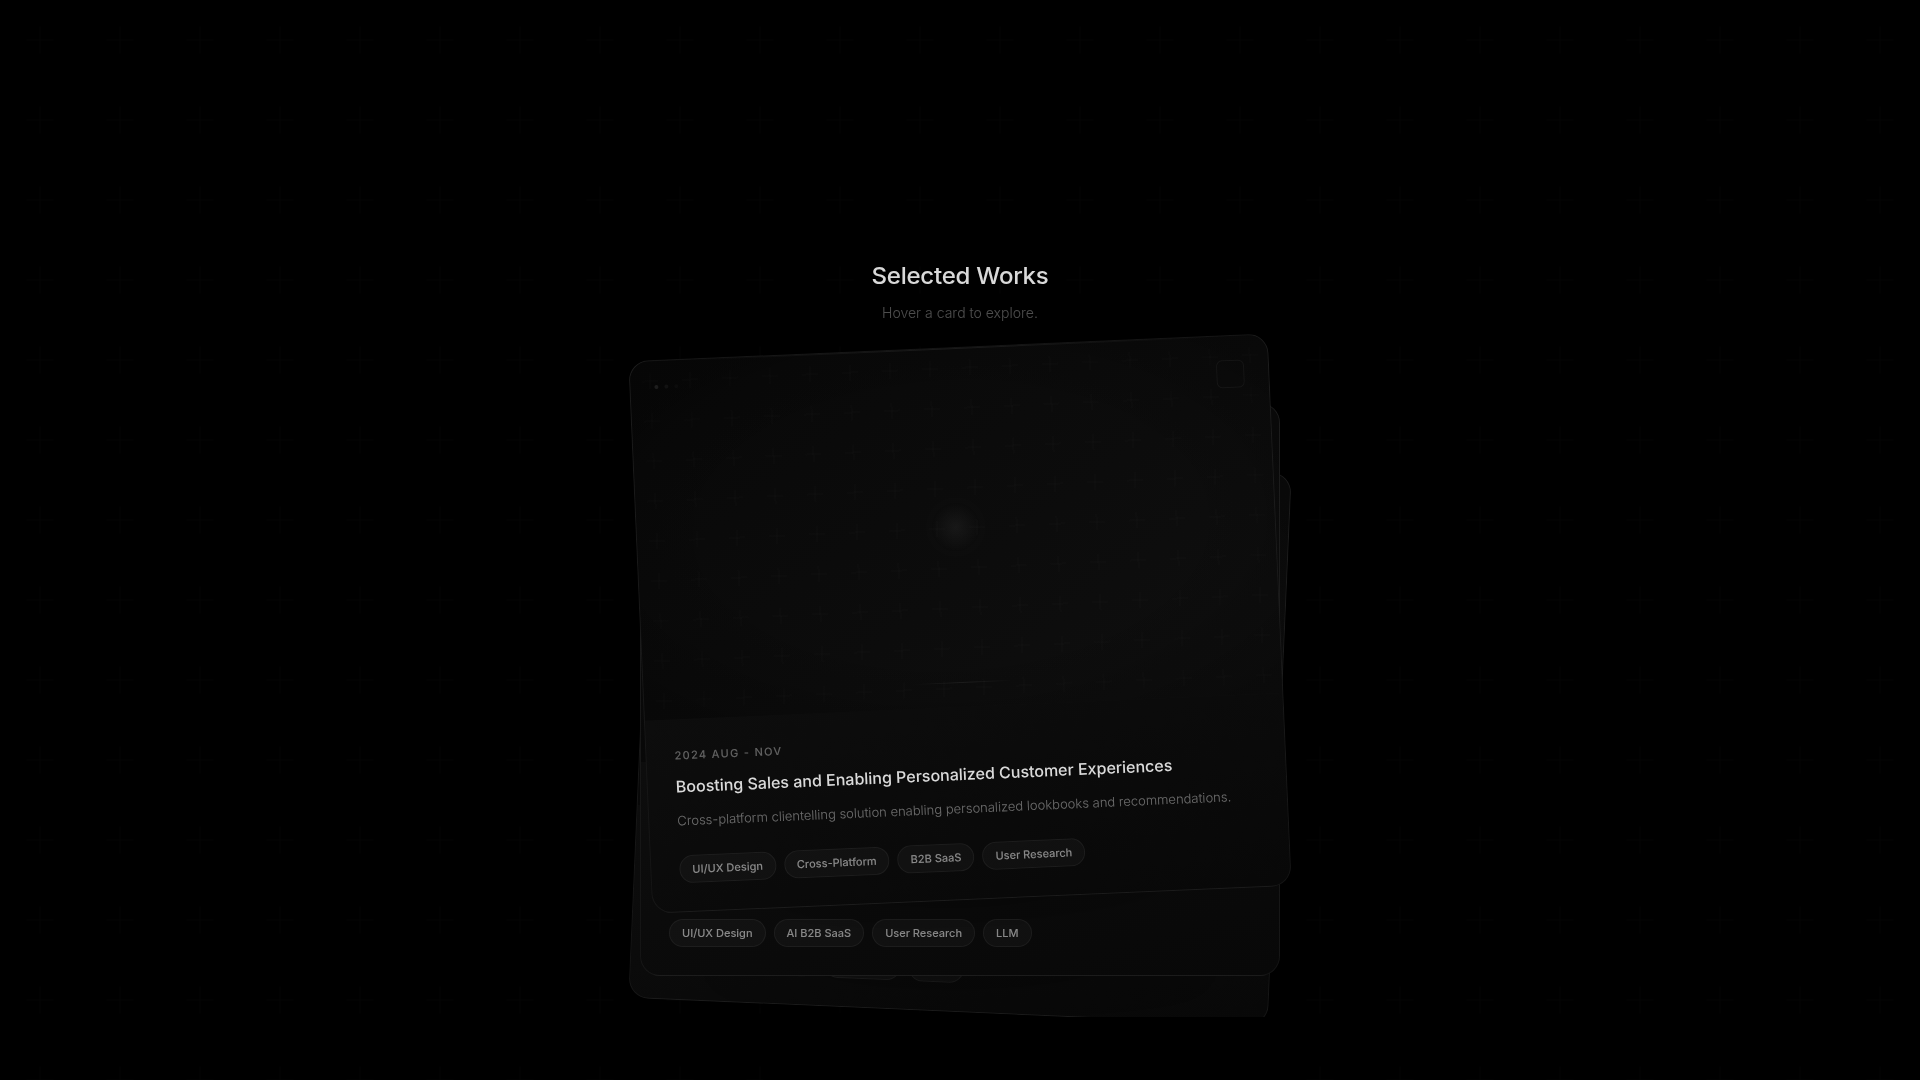
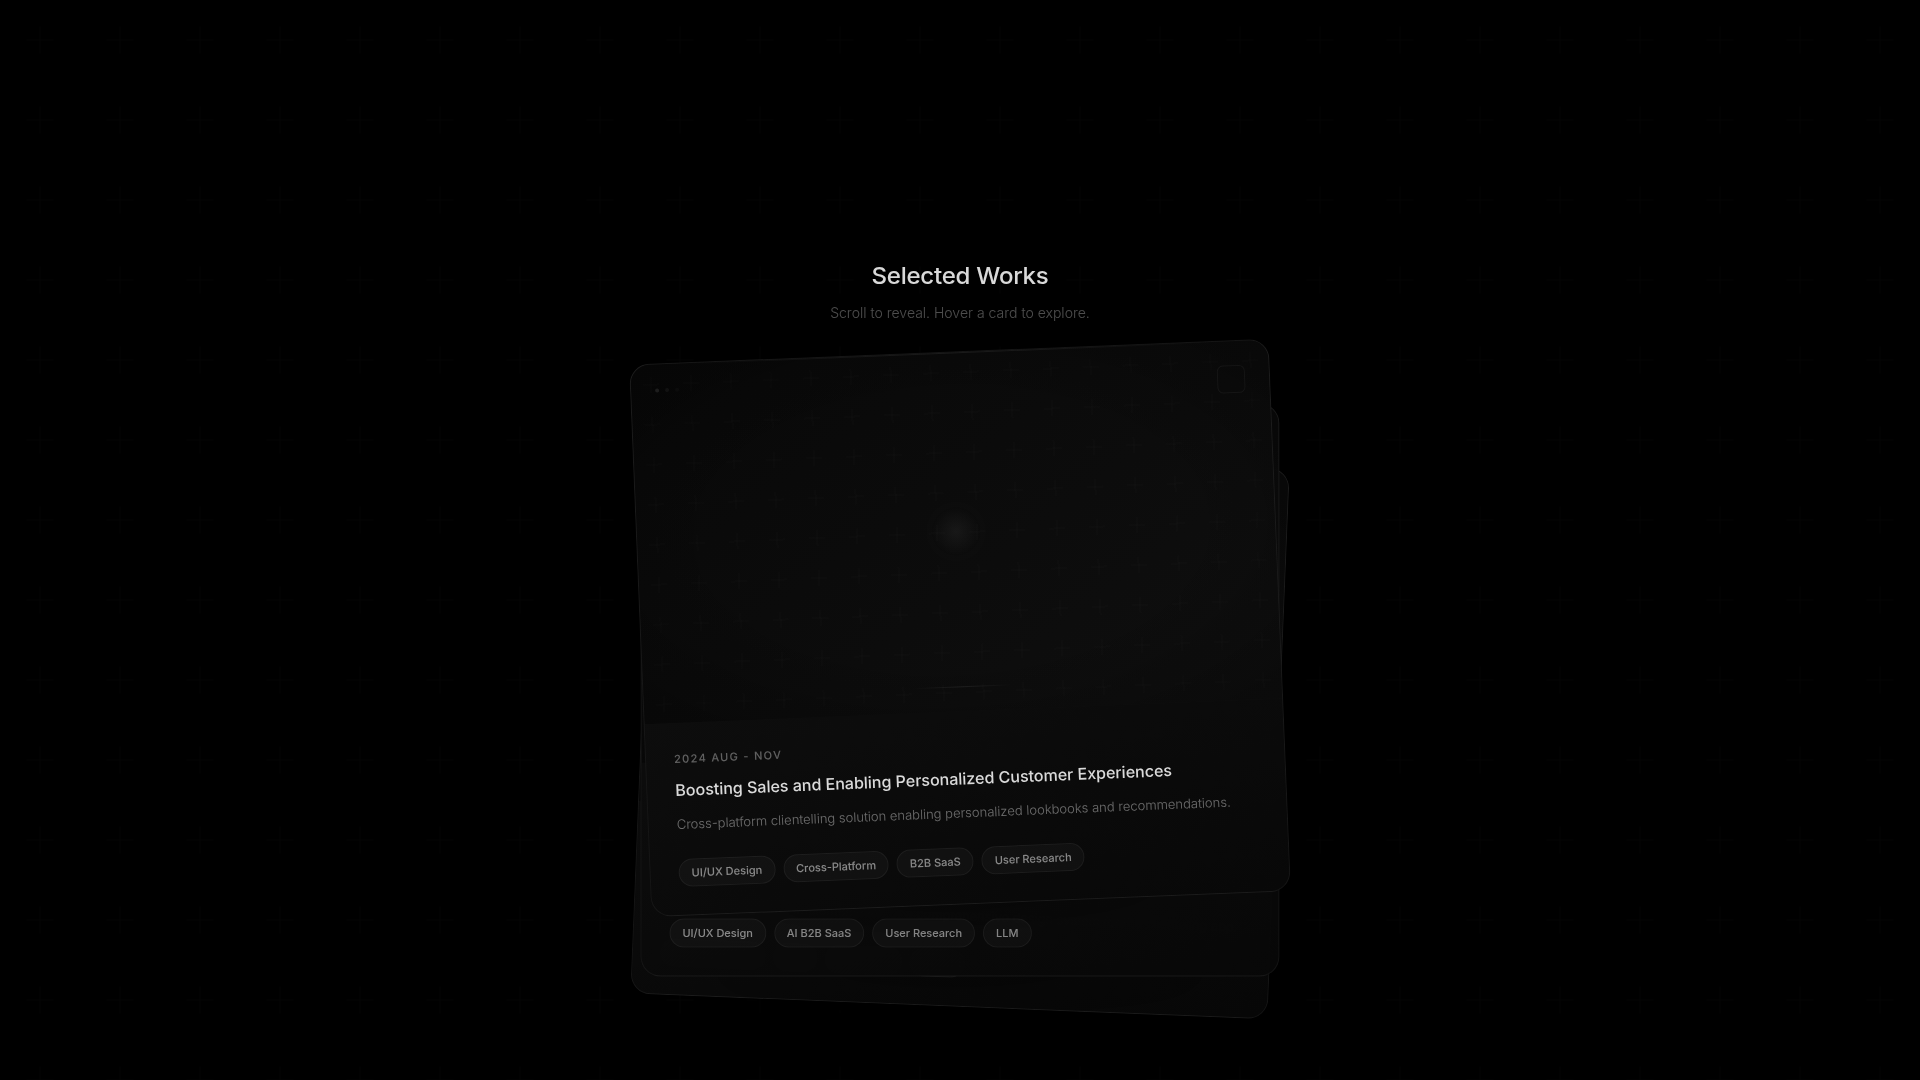
Make card stack interactive with scrolling and hovering
Implement scroll-driven animations for card stacking and individual card hover effects in TiltStack.tsx.

Replit-Commit-Author: Agent
Replit-Commit-Session-Id: c0982322-0e7c-4929-8baf-d1b960be61bd
Replit-Commit-Checkpoint-Type: full_checkpoint
Replit-Commit-Event-Id: fe43eab9-32f4-4708-a126-9c12268e8735
Replit-Commit-Screenshot-Url: https://storage.googleapis.com/screenshot-production-us-central1/5a25a198-8e8f-4f64-b379-6fbe4fcce09e/c0982322-0e7c-4929-8baf-d1b960be61bd/ggiEiC9
Replit-Helium-Checkpoint-Created: true

Changed region(s): [[0.3438, 0.6722, 0.625, 0.7944], [0.375, 0.7944, 0.5, 0.825], [0.4375, 0.275, 0.5312, 0.3056]]

diff --git a/artifacts/mockup-sandbox/src/components/mockups/product-cards/TiltStack.tsx b/artifacts/mockup-sandbox/src/components/mockups/product-cards/TiltStack.tsx
@@ -1,4 +1,4 @@
-import React, { useRef, useState } from 'react';
+import React, { useRef, useState, useEffect, useCallback } from 'react';
 import './_tilt.css';
 
 const PROJECTS = [
@@ -30,11 +30,13 @@ function StackedCard({
   index,
   activeIndex,
   setActiveIndex,
+  scrollProgress,
 }: {
   project: typeof PROJECTS[0];
   index: number;
   activeIndex: number | null;
   setActiveIndex: (i: number | null) => void;
+  scrollProgress: number; // 0 = stacked, 1 = fully spread
 }) {
   const cardRef = useRef<HTMLDivElement>(null);
   const [mousePos, setMousePos] = useState({ x: 50, y: 30 });
@@ -50,9 +52,22 @@ function StackedCard({
     });
   };
 
-  // Stacked position: fan-out with visible overlap
-  const stackOffset = (index - 1) * 56;
-  const stackRotation = (index - 1) * 2.5;
+  // Interpolate between stacked and spread positions based on scroll
+  const stackedOffset = (index - 1) * 6; // tight stack
+  const spreadOffset = (index - 1) * 56; // fan out
+  const currentOffset = stackedOffset + (spreadOffset - stackedOffset) * scrollProgress;
+
+  const stackedRotation = (index - 1) * 0.5;
+  const spreadRotation = (index - 1) * 2.5;
+  const currentRotation = stackedRotation + (spreadRotation - stackedRotation) * scrollProgress;
+
+  const stackedScale = 1 - (index) * 0.02;
+  const spreadScale = 1;
+  const currentScale = stackedScale + (spreadScale - stackedScale) * scrollProgress;
+
+  const stackedOpacity = 1 - (index) * 0.1;
+  const spreadOpacity = anyActive && !isActive ? 0.6 : 1;
+  const currentOpacity = stackedOpacity + (spreadOpacity - stackedOpacity) * scrollProgress;
 
   return (
     <div
@@ -60,10 +75,13 @@ function StackedCard({
         position: 'absolute',
         left: '50%',
         top: 0,
-        transform: `translateX(-50%) translateY(${isActive ? -12 : stackOffset}px) rotate(${isActive ? 0 : stackRotation}deg) scale(${isActive ? 1.03 : anyActive && !isActive ? 0.97 : 1})`,
+        transform: `translateX(-50%) translateY(${isActive ? -12 : currentOffset}px) rotate(${isActive ? 0 : currentRotation}deg) scale(${isActive ? 1.03 : currentScale})`,
         zIndex: isActive ? 30 : 10 - index,
         width: isActive ? 720 : 640,
-        transition: 'all 0.6s cubic-bezier(0.23, 1, 0.32, 1)',
+        opacity: anyActive ? (isActive ? 1 : 0.6) : currentOpacity,
+        transition: isActive
+          ? 'all 0.5s cubic-bezier(0.23, 1, 0.32, 1)'
+          : 'transform 0.15s linear, opacity 0.15s linear, width 0.5s cubic-bezier(0.23, 1, 0.32, 1)',
         pointerEvents: 'auto',
       }}
       onMouseEnter={() => setActiveIndex(index)}
@@ -81,7 +99,7 @@ function StackedCard({
             ? 'radial-gradient(ellipse at center, rgba(0,0,0,0.7) 0%, transparent 70%)'
             : 'radial-gradient(ellipse at center, rgba(0,0,0,0.5) 0%, transparent 70%)',
           filter: isActive ? 'blur(30px)' : 'blur(16px)',
-          transition: 'all 0.6s cubic-bezier(0.23, 1, 0.32, 1)',
+          transition: 'all 0.5s cubic-bezier(0.23, 1, 0.32, 1)',
           pointerEvents: 'none',
           zIndex: -1,
         }}
@@ -94,7 +112,6 @@ function StackedCard({
         style={{
           ['--mouse-x' as string]: `${mousePos.x}%`,
           ['--mouse-y' as string]: `${mousePos.y}%`,
-          opacity: anyActive && !isActive ? 0.6 : 1,
         }}
       >
         <div className="luminous-overlay" />
@@ -186,6 +203,29 @@ function StackedCard({
 
 export function TiltStack() {
   const [activeIndex, setActiveIndex] = useState<number | null>(null);
+  const [scrollProgress, setScrollProgress] = useState(0);
+  const sectionRef = useRef<HTMLDivElement>(null);
+
+  const handleScroll = useCallback(() => {
+    if (!sectionRef.current) return;
+    const rect = sectionRef.current.getBoundingClientRect();
+    const windowHeight = window.innerHeight;
+
+    // Calculate progress: 0 when section top hits bottom of viewport
+    // 1 when section center hits viewport center
+    const triggerStart = windowHeight;
+    const triggerEnd = windowHeight * 0.3;
+    const currentPos = rect.top;
+
+    const progress = Math.min(1, Math.max(0, (triggerStart - currentPos) / (triggerStart - triggerEnd)));
+    setScrollProgress(progress);
+  }, []);
+
+  useEffect(() => {
+    window.addEventListener('scroll', handleScroll, { passive: true });
+    handleScroll(); // initial
+    return () => window.removeEventListener('scroll', handleScroll);
+  }, [handleScroll]);
 
   return (
     <div style={{
@@ -208,12 +248,13 @@ export function TiltStack() {
             color: 'rgba(255,255,255,0.3)', fontSize: 14,
             fontFamily: "'Inter', sans-serif", fontWeight: 300,
           }}>
-            Hover a card to explore.
+            Scroll to reveal. Hover a card to explore.
           </p>
         </div>
 
         {/* Card stack container */}
         <div
+          ref={sectionRef}
           style={{
             position: 'relative',
             height: activeIndex !== null ? 520 : 420,
@@ -230,6 +271,7 @@ export function TiltStack() {
               index={index}
               activeIndex={activeIndex}
               setActiveIndex={setActiveIndex}
+              scrollProgress={scrollProgress}
             />
           ))}
         </div>
